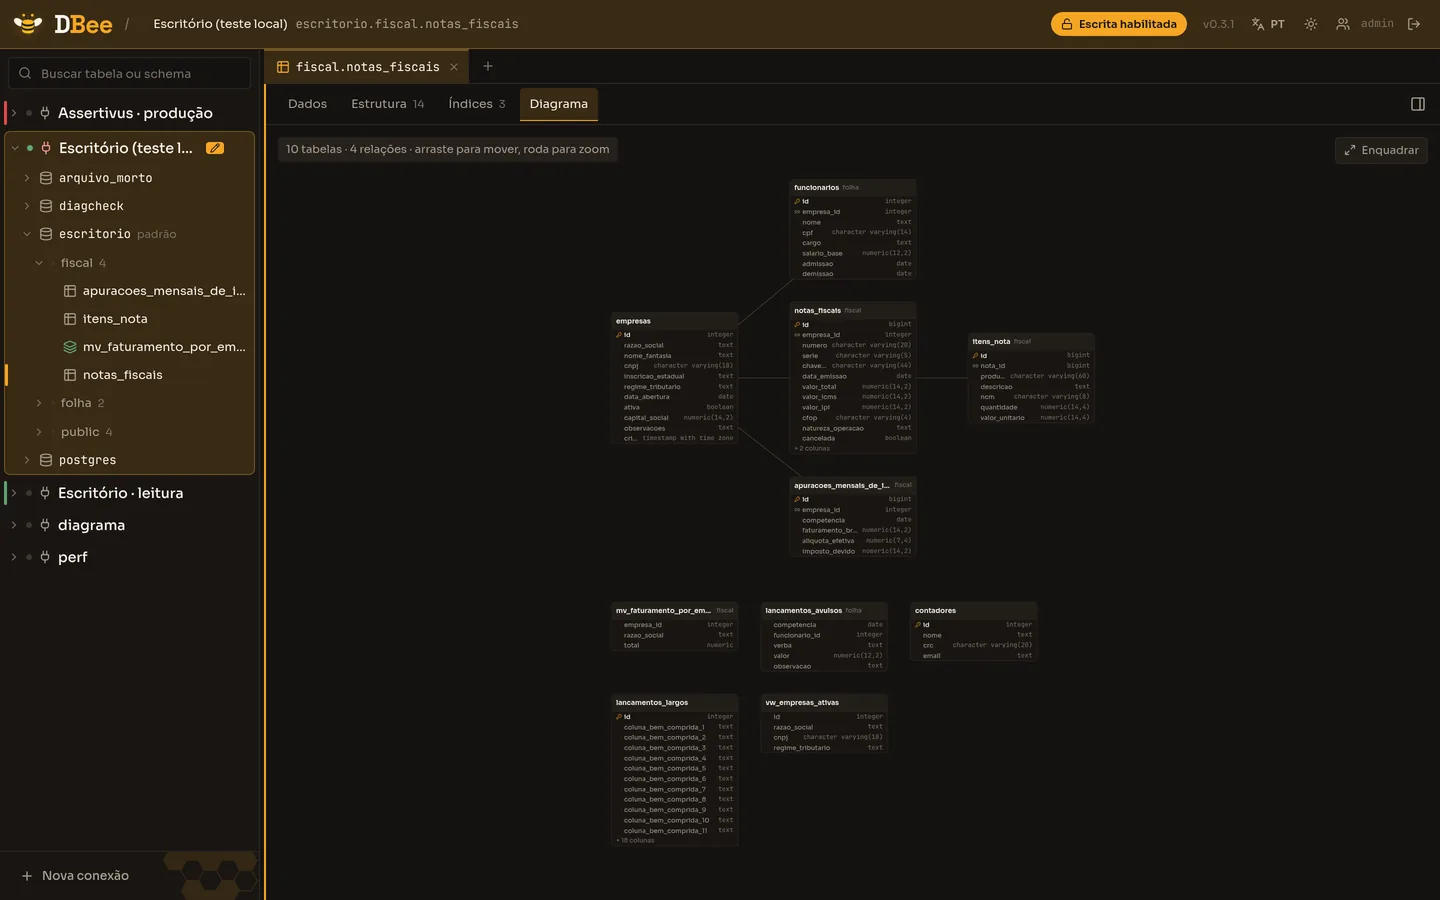
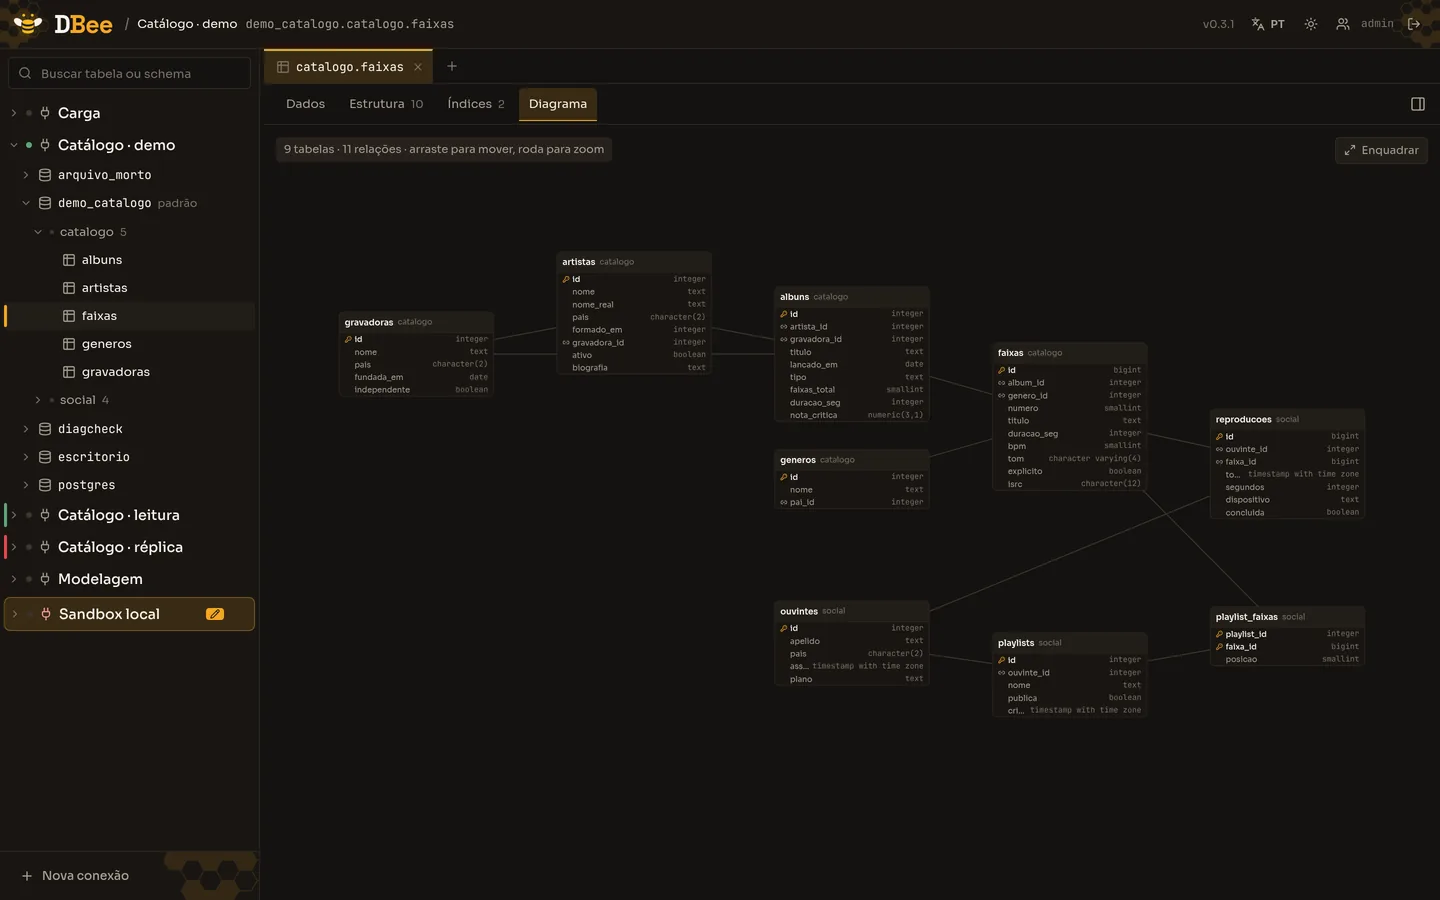
docs(readme): telas de exemplo saem do domínio real do escritório
As capturas anteriores mostravam o schema de produção — empresas, notas
fiscais, funcionários — e a árvore trazia o nome do cliente no rótulo de uma
conexão. Documentação pública não é lugar para o modelo de negócio de quem usa
a ferramenta, nem para o nome dele.

As telas passam a usar um catálogo de música gerado só para a documentação:
gravadoras, artistas, álbuns, faixas, gêneros, e um schema `social` com
ouvintes, playlists e reproduções. Nove tabelas em dois schemas, 11 relações —
um ERD que mostra mais do modelo do que o anterior, e uma consulta de exemplo
que atravessa quatro tabelas e dois schemas.

Também mostra melhor o produto: o selo "somente leitura" aparece no editor,
dizendo em que modo a transação vai nascer, e o diagrama exibe FKs cruzando
schemas.

A legenda diz explicitamente que o catálogo é de exemplo, para ninguém
confundir com dado real.

Claude-Session: https://claude.ai/code/session_01RcVTh1ZrhP3UkV1uYgfNi7

diff --git a/README.md b/README.md
@@ -28,18 +28,19 @@ pessoa.
 Está em produção diária num escritório contábil desde a v0.1.
 
 <p align="center">
-  <img src="assets/grid.webp" alt="Grid de resultados do DBee, com árvore de schema à esquerda" width="900">
+  <img src="assets/grid.webp" alt="Grade de resultados do DBee, com a árvore de schemas à esquerda" width="900">
 </p>
-<p align="center"><sub>Grade virtualizada — 100 mil linhas sem travar, paginação por keyset, arraste para navegar.</sub></p>
+<p align="center"><sub>Grade virtualizada — 100 mil linhas sem travar, paginação por keyset, arraste para navegar.<br>
+<em>As telas usam um catálogo de música de exemplo, gerado só para a documentação.</em></sub></p>
 
 <table>
 <tr>
-<td width="50%"><img src="assets/sql.webp" alt="Editor SQL com dois resultados" width="100%"></td>
-<td width="50%"><img src="assets/diagrama.webp" alt="Diagrama ERD gerado do schema" width="100%"></td>
+<td width="50%"><img src="assets/sql.webp" alt="Editor SQL do DBee com uma consulta agregada e o resultado abaixo" width="100%"></td>
+<td width="50%"><img src="assets/diagrama.webp" alt="Diagrama ERD gerado a partir do catálogo, com as tabelas ligadas pelas chaves estrangeiras" width="100%"></td>
 </tr>
 <tr>
-<td><sub><strong>Editor SQL</strong> — autocomplete de tabela e coluna, vários statements por execução, tempo de cada um, erro do Postgres inteiro (com a posição destacada).</sub></td>
-<td><sub><strong>Diagrama ERD</strong> — gerado do catálogo, layout em camadas pelas FKs. Tabelas sem relação vão para uma grade abaixo, em vez de virar uma coluna de 13 mil pixels.</sub></td>
+<td><sub><strong>Editor SQL</strong> — autocomplete alimentado pelo catálogo, vários statements por execução com o tempo de cada um, e o selo <em>somente leitura</em> dizendo em que modo a transação vai nascer.</sub></td>
+<td><sub><strong>Diagrama ERD</strong> — gerado do catálogo, layout em camadas pelas FKs, atravessando schemas. Tabelas sem relação vão para uma grade abaixo, em vez de virar uma coluna de 13 mil pixels.</sub></td>
 </tr>
 </table>
 
